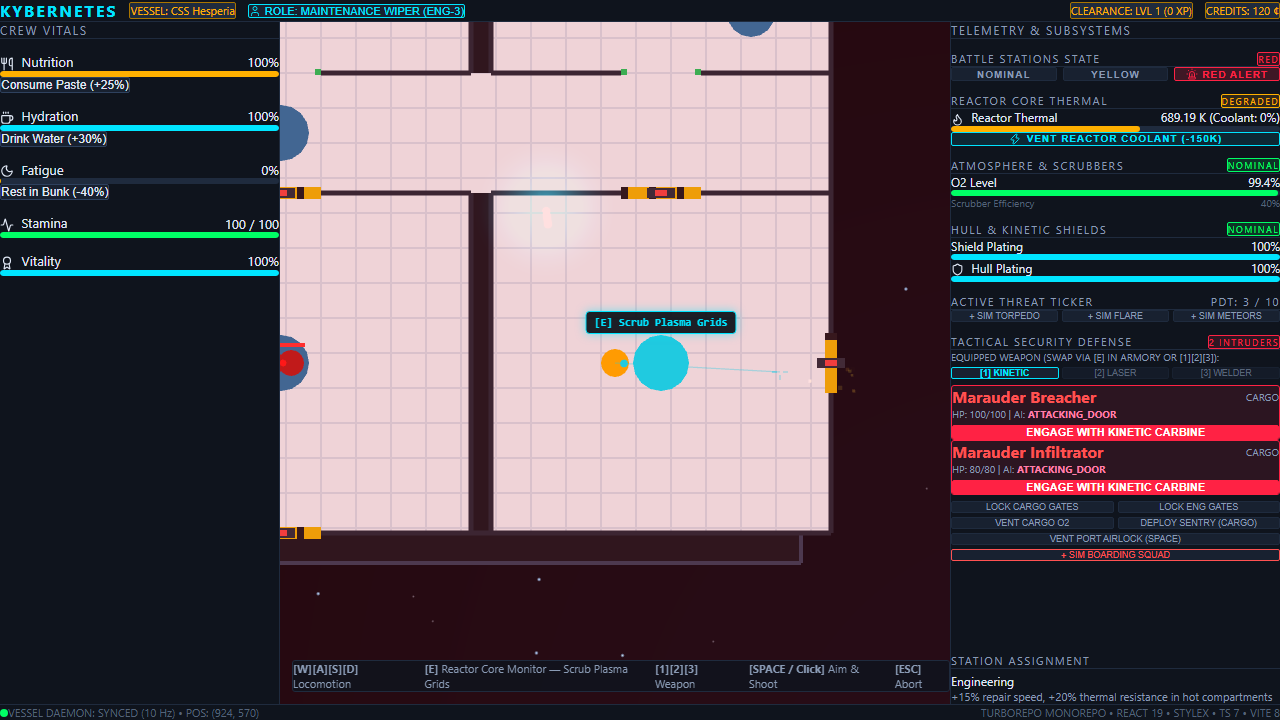
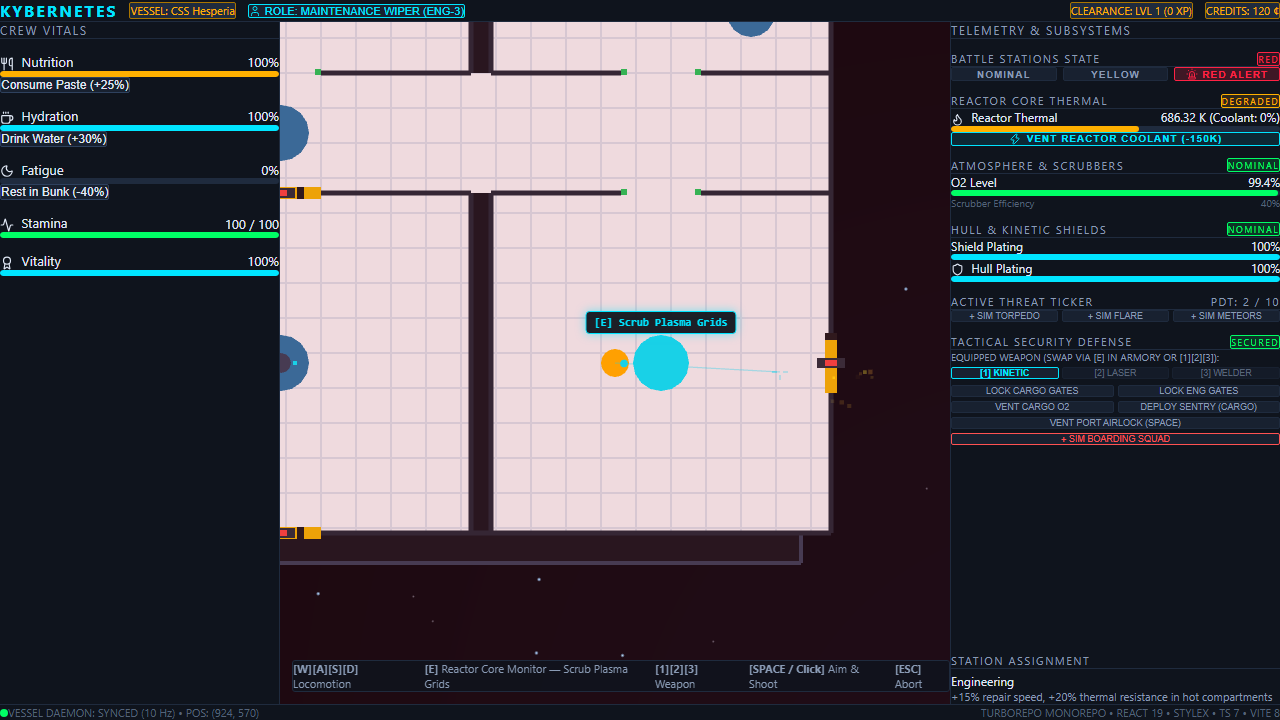
feat(weapons): render bullets as flat fast-fading tracer trails with zero glow
- Updated Kinetic Carbine shader to render crisp flat tracer trails with zero bloom or glow effects
- Flat alpha fade (pow 2.2) rapidly tapering towards the tail
- Removed kinetic bullets from dynamic point lighting loop so bulkheads, doors, and floors remain dark around ballistic rounds
- Preserved ricochet spark bursts on wall/door impact
- All 6 quality gates passing (lint, quality, typecheck, test, build, test:e2e)

diff --git a/apps/web/src/webgl/WebGL2Renderer.ts b/apps/web/src/webgl/WebGL2Renderer.ts
@@ -202,19 +202,22 @@ export class WebGL2Renderer {
     this.currentLightColors.fill(0);
     if (!projectiles) return;
 
-    for (let i = 0; i < Math.min(6, projectiles.length); i++) {
-      const p = projectiles[i];
+    let lightIdx = 0;
+    for (const p of projectiles) {
+      if (lightIdx >= 6) break;
+      // Bullets do not emit ambient glow/light; only energy bolts do
+      if (p.weaponType === 'kinetic_carbine') continue;
+
       const isLaser = p.weaponType === 'pulse_laser' || p.color === '#00f0ff';
       const isWelder = p.weaponType === 'arc_welder';
-      const isKinetic = p.weaponType === 'kinetic_carbine';
 
-      const radius = isLaser ? 85.0 : isWelder ? 65.0 : isKinetic ? 30.0 : 75.0;
-      const intensity = isLaser ? 1.4 : isWelder ? 1.0 : isKinetic ? 0.35 : 0.9;
+      const radius = isLaser ? 85.0 : isWelder ? 65.0 : 75.0;
+      const intensity = isLaser ? 1.4 : isWelder ? 1.0 : 0.9;
 
-      this.currentLights[i * 4 + 0] = p.x;
-      this.currentLights[i * 4 + 1] = p.y;
-      this.currentLights[i * 4 + 2] = radius;
-      this.currentLights[i * 4 + 3] = intensity;
+      this.currentLights[lightIdx * 4 + 0] = p.x;
+      this.currentLights[lightIdx * 4 + 1] = p.y;
+      this.currentLights[lightIdx * 4 + 2] = radius;
+      this.currentLights[lightIdx * 4 + 3] = intensity;
 
       let r = 0.0;
       let g = 0.9;
@@ -223,10 +226,6 @@ export class WebGL2Renderer {
         r = 1.0;
         g = 0.1;
         b = 0.25;
-      } else if (p.color === '#ffd166' || isKinetic) {
-        r = 1.0;
-        g = 0.8;
-        b = 0.3;
       } else if (p.color === '#00f0ff' || isLaser) {
         r = 0.0;
         g = 0.95;
@@ -236,9 +235,10 @@ export class WebGL2Renderer {
         g = 0.7;
         b = 1.0;
       }
-      this.currentLightColors[i * 3 + 0] = r;
-      this.currentLightColors[i * 3 + 1] = g;
-      this.currentLightColors[i * 3 + 2] = b;
+      this.currentLightColors[lightIdx * 3 + 0] = r;
+      this.currentLightColors[lightIdx * 3 + 1] = g;
+      this.currentLightColors[lightIdx * 3 + 2] = b;
+      lightIdx++;
     }
   }
 
@@ -584,12 +584,12 @@ export class WebGL2Renderer {
       let halfW = 6.5;
 
       if (proj.weaponType === 'kinetic_carbine') {
-        style = 0; // normal bullet
+        style = 0; // flat tracer trail (no glow)
         r = 1.0;
         g = 0.82;
         b = 0.25;
-        beamLen = 10;
-        halfW = 3.2;
+        beamLen = 28;
+        halfW = 2.0;
       } else if (proj.weaponType === 'arc_welder') {
         style = 2; // electric zap
         r = 0.0;

diff --git a/apps/web/src/webgl/shaders.ts b/apps/web/src/webgl/shaders.ts
@@ -169,16 +169,23 @@ void main() {
   float v = v_uv.y;
 
   if (u_style == 0) {
-    // KINETIC CARBINE: Sleek normal bullet (solid metallic slug with hot nose)
-    float bulletDist = sqrt(max(0.0, abs(u) - 0.4) / 0.6 * max(0.0, abs(u) - 0.4) / 0.6 + v * v);
-    if (bulletDist > 1.0) discard;
+    // KINETIC BULLET: Flat tracer trail that fades fast towards the tail (no glow)
+    float trailProgress = (u + 1.0) * 0.5; // 0.0 at tail, 1.0 at bullet head
 
-    float tip = clamp((u + 1.0) * 0.5, 0.0, 1.0);
-    vec3 brass = vec3(0.98, 0.76, 0.22);
-    vec3 hotNose = vec3(1.0, 0.98, 0.85);
-    vec3 col = mix(brass, hotNose, pow(tip, 3.0));
-    float edge = 1.0 - smoothstep(0.7, 1.0, bulletDist);
-    fragColor = vec4(col, edge * u_color.a);
+    // Aerodynamic taper: very slim at tail, solid width at bullet tip
+    float widthFactor = 0.35 + 0.65 * trailProgress;
+    if (abs(v) > widthFactor) discard;
+
+    // Fast-fading flat trail: trail alpha drops off sharply towards the tail
+    float fade = pow(trailProgress, 2.2);
+
+    // Flat colors: warm military tracer amber fading back, bright bullet tip
+    vec3 tailColor = vec3(1.0, 0.72, 0.2);
+    vec3 headColor = vec3(1.0, 1.0, 0.95);
+    vec3 flatColor = mix(tailColor, headColor, smoothstep(0.7, 1.0, trailProgress));
+
+    // Crisp flat output, zero bloom/glow
+    fragColor = vec4(flatColor, fade * u_color.a);
     return;
   }
 
